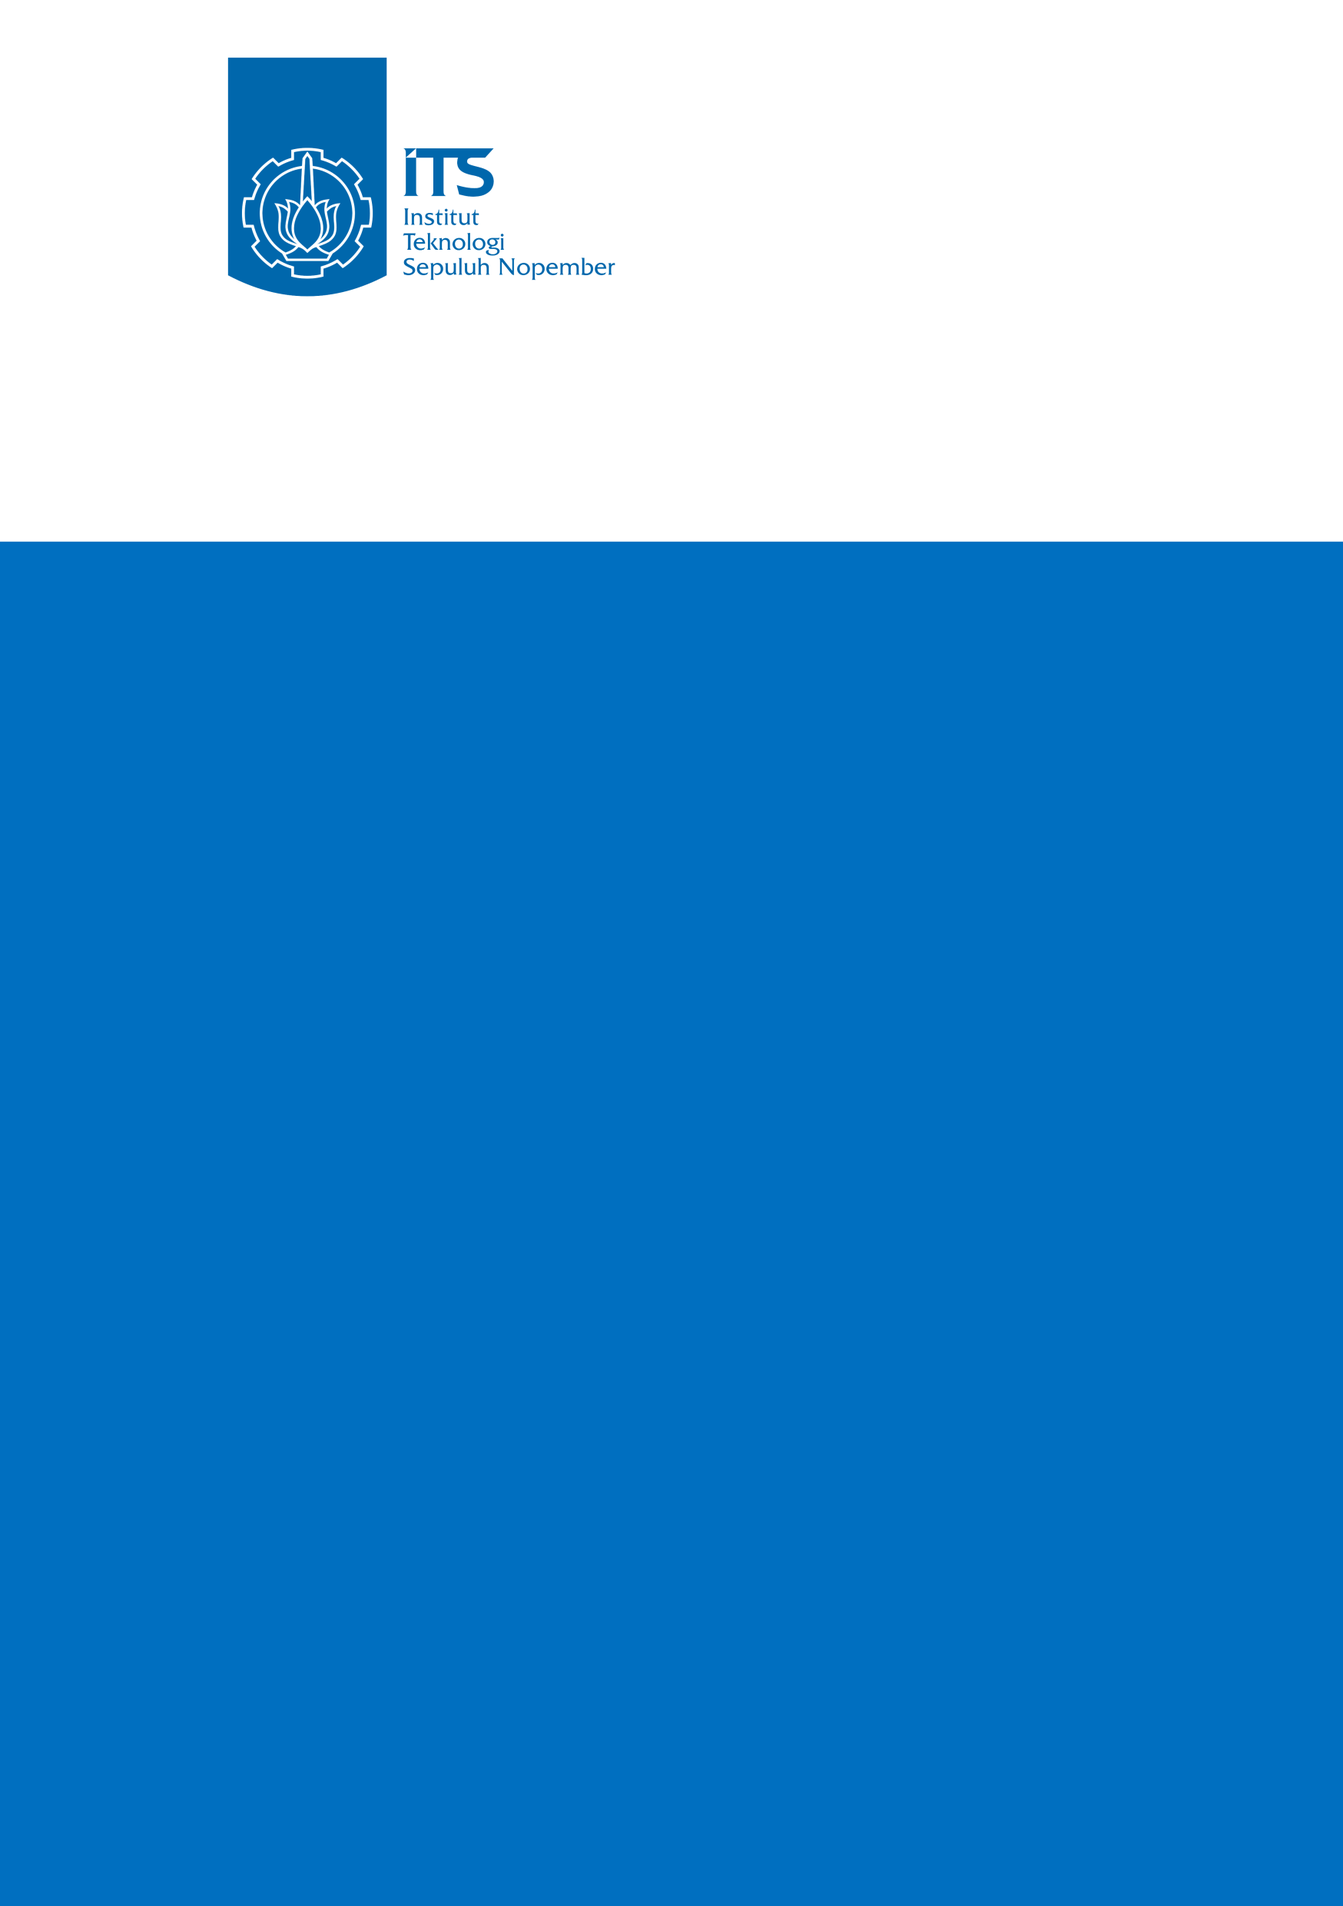
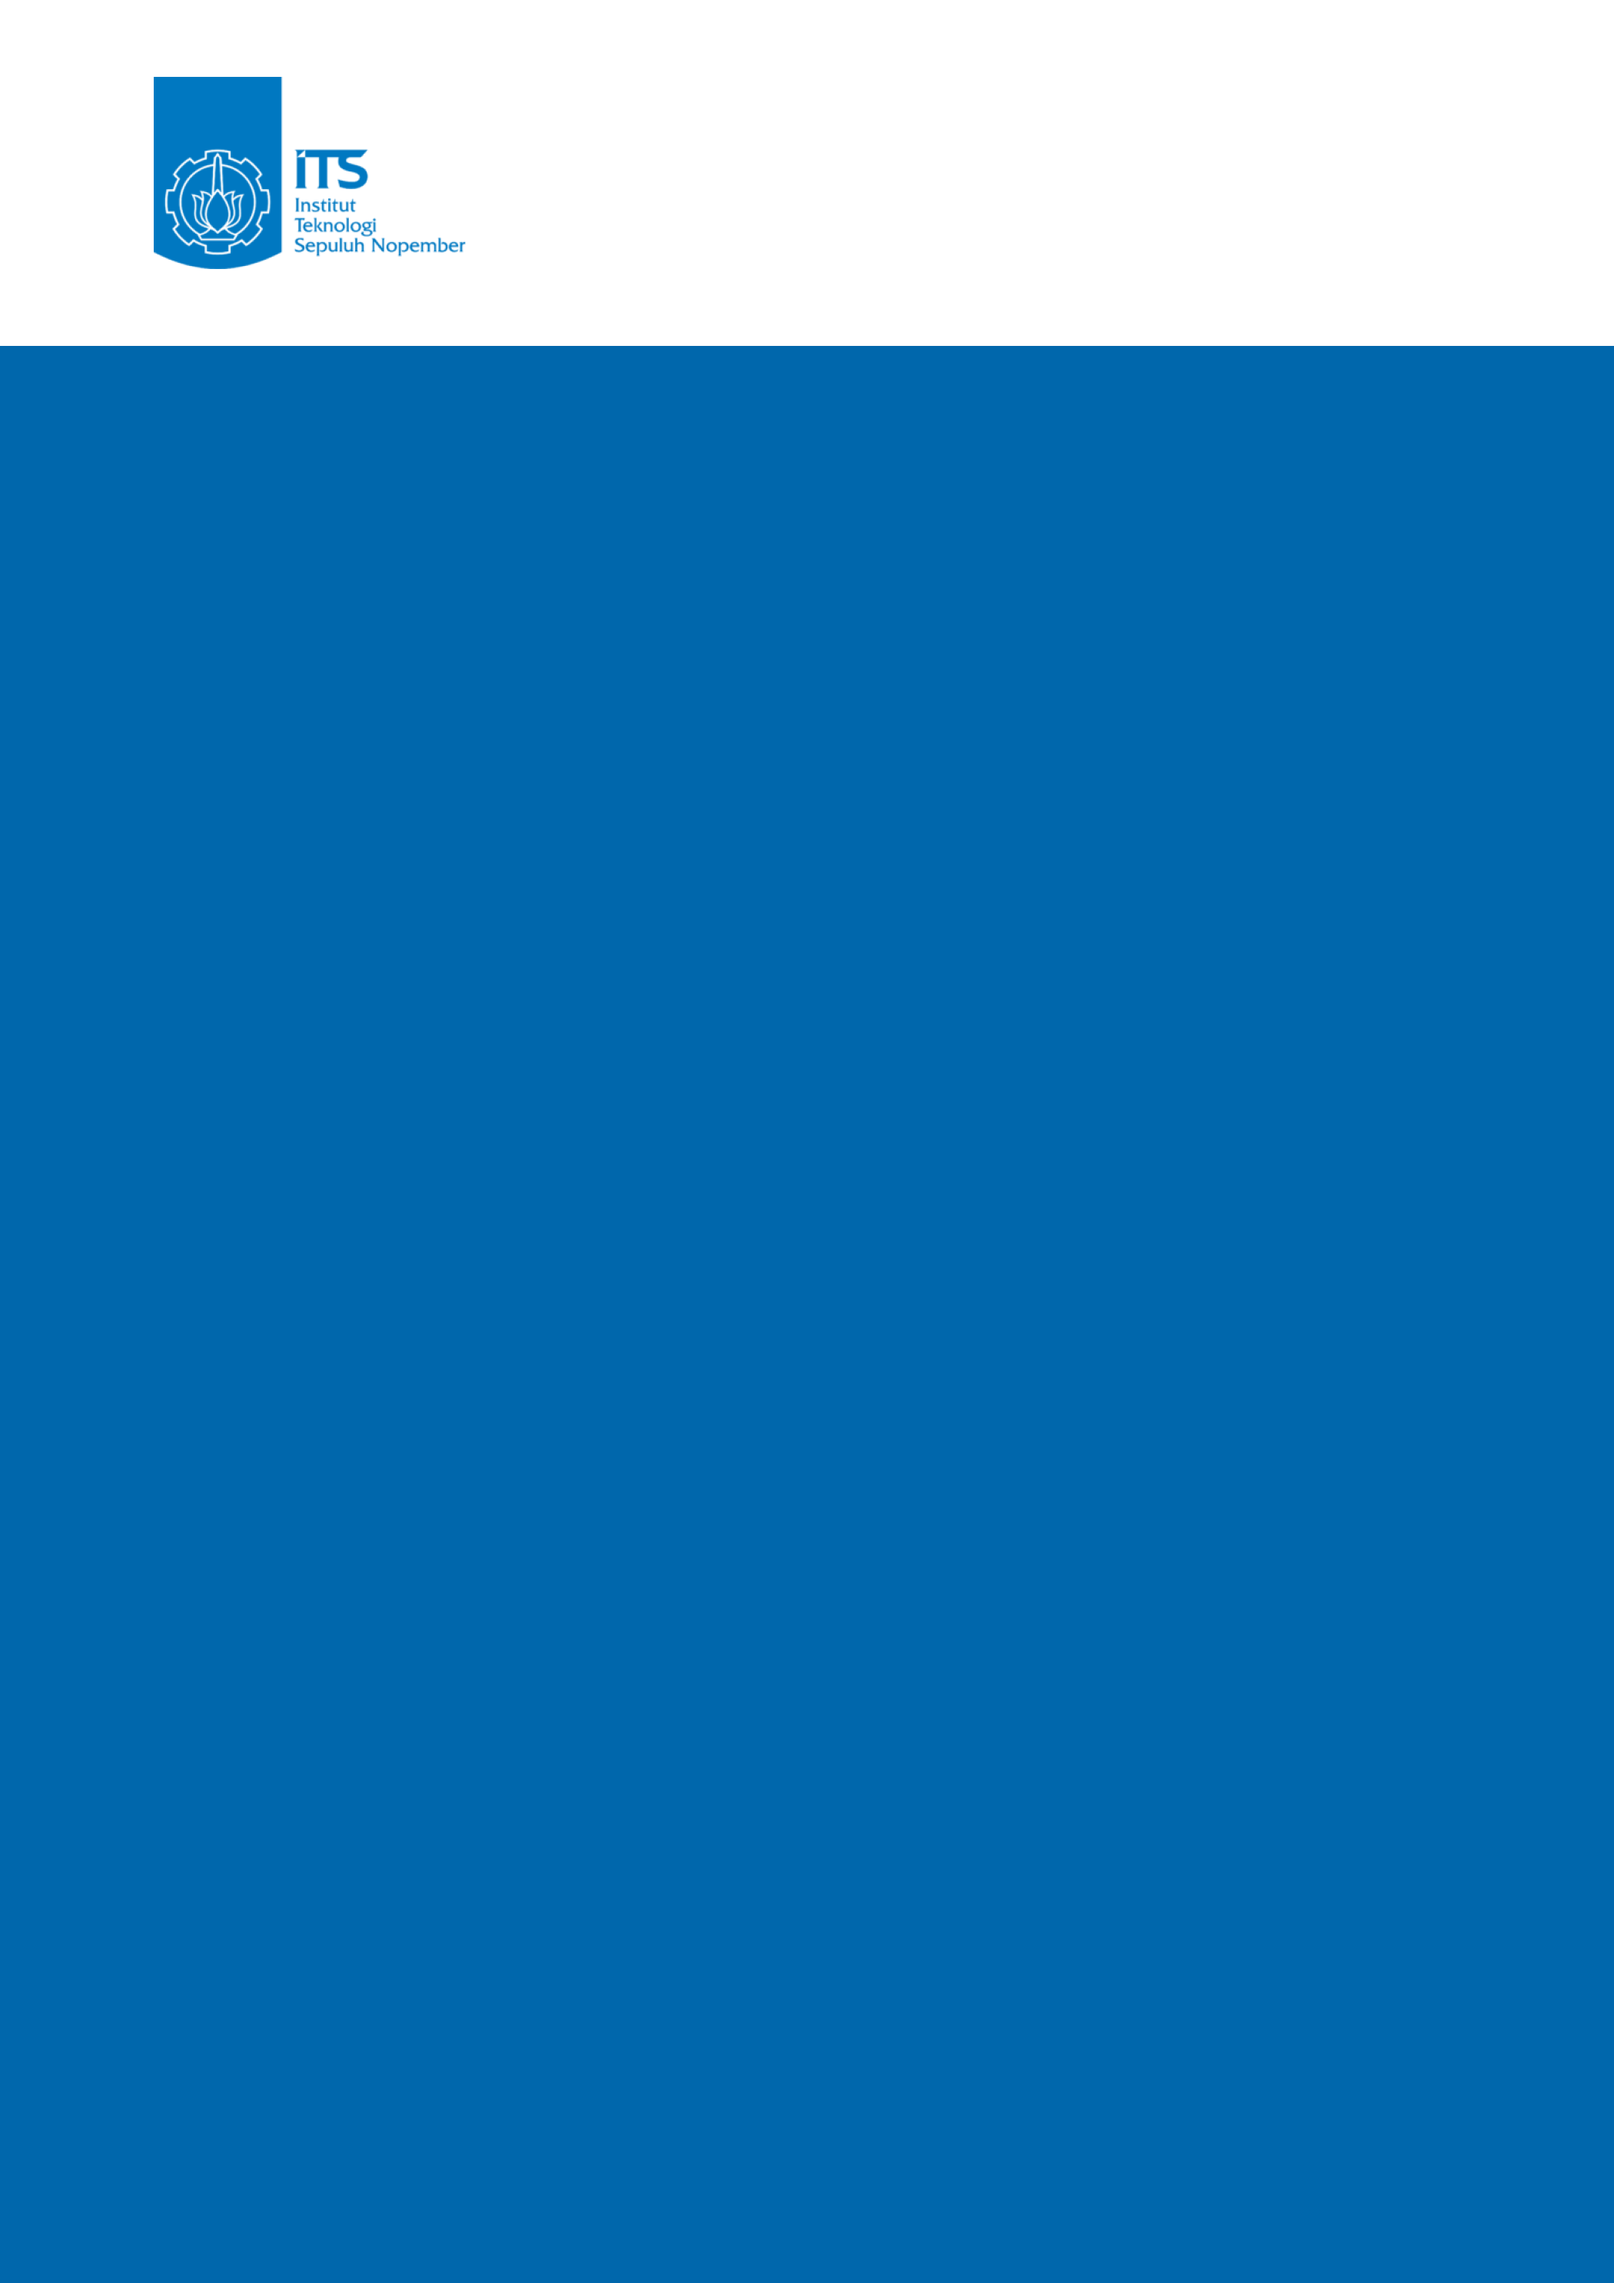
feat: add variables :rocket:

Changed region(s): [[0.0, 0.031, 1.0, 0.3105]]

diff --git a/pustaka/variables.tex b/pustaka/variables.tex
@@ -1,7 +1,19 @@
-\def\name{Aaron Christopher Tanhar}
-\def\nickname{Aaron}
-\def\advisor{Mochamad Hariadi, S.T., M.Sc., Ph.D.}
-\def\coadvisor{Dr. Surya Sumpeno, S.T., M.Sc.}
-\def\nrp{0721 19 4000 0055}
-\def\advisornip{19691209 199703 1 002}
-\def\coadvisornip{19690613 199702 1 003}
+\newcommand{\name}{Aaron Christopher Tanhar}
+\newcommand{\authorname}{Tanhar, Aaron Christopher}
+\newcommand{\nickname}{Aaron}
+\newcommand{\advisor}{Mochamad Hariadi, S.T., M.Sc., Ph.D.}
+\newcommand{\coadvisor}{Dr. Surya Sumpeno, S.T., M.Sc.}
+\newcommand{\nrp}{0721 19 4000 0055}
+\newcommand{\advisornip}{19691209 199703 1 002}
+\newcommand{\coadvisornip}{19690613 199702 1 003}
+\newcommand{\tatitle}{SISTEM DATA SHARING BERBASIS \emph{BLOCKCHAIN} UNTUK \emph{AUDIO PLAYER} DI \emph{METAVERSE}}
+\newcommand{\engtatitle}{\emph{BLOCKCHAIN DATA SHARING SYSTEM FOR AUDIO PLAYER IN METAVERSE}}
+\newcommand{\place}{Surabaya}
+\newcommand{\studyprogram}{Teknik Komputer}
+\newcommand{\engstudyprogram}{Computer Engineering}
+\newcommand{\faculty}{Teknologi Elektro dan Informatika Cerdas}
+\newcommand{\facultyshort}{FTEIC}
+\newcommand{\engfacultyshort}{ELECTICS}
+\newcommand{\engfaculty}{Intelligent Electrical and Informatics Technology}
+\newcommand{\department}{Teknik Komputer}
+\newcommand{\engdepartment}{Computer Engineering}

diff --git a/sampul/konten-id.tex b/sampul/konten-id.tex
@@ -8,8 +8,7 @@
 % Ubah kalimat berikut dengan judul tugas akhir
 \begin{spacing}{1.5}
   \begin{Large}
-    KALKULASI ENERGI PADA ROKET LUAR
-    ANGKASA BERBASIS \emph{ANTI-GRAVITASI}
+    \tatitle
   \end{Large}
 \end{spacing}
 
@@ -26,23 +25,23 @@
 % Ubah kalimat-kalimat berikut dengan nama-nama dosen pembimbing
 \begin{large}
   \textmd{Dosen Pembimbing} \\
-  Nikola Tesla, S.T., M.T. \\
+  \advisor{} \\
   \textmd{NIP \advisornip{}} \\
-  Wernher von Braun, S.T., M.T. \\
+  \coadvisor{} \\
   \textmd{NIP \coadvisornip{}}
 \end{large}
 
 \vspace{\fill}
 
 % Ubah kalimat-kalimat berikut dengan nama departemen dan fakultas
-Program Studi Strata 1 (S1) Teknik Dirgantara \\
+Program Studi Strata 1 (S1) \studyprogram{} \\
 
 \mdseries
 
-Departemen Teknik Dirgantara \\
-Fakultas Teknologi Dirgantara \\
+Departemen \department{} \\
+Fakultas \faculty{} \\
 Institut Teknologi Sepuluh Nopember
 
 % Ubah kalimat berikut dengan tempat dan tahun pembuatan buku
-Surabaya \\
-2077
+\place{} \\
+\the\year{}

diff --git a/sampul/konten-en.tex b/sampul/konten-en.tex
@@ -8,7 +8,7 @@
 % Ubah kalimat berikut dengan judul tugas akhir
 \begin{spacing}{1.5}
   \begin{Large}
-    \emph{ANTI-GRAVITY} BASED ENERGY CALCULATION ON OUTER SPACE ROCKETS
+    \engtatitle
   \end{Large}
 \end{spacing}
 
@@ -34,14 +34,14 @@
 \vspace{\fill}
 
 % Ubah kalimat-kalimat berikut dengan nama departemen dan fakultas
-Undergraduate Study Program of Computer Engineering \\
+Undergraduate Study Program of \engstudyprogram{} \\
 
 \mdseries
 
-DEPARTMENT OF AEROSPACE ENGINEERING \\
-Faculty of Aerospace Technology \\
+Department of \engdepartment{} \\
+Faculty of \engfaculty{} \\
 Sepuluh Nopember Institute of Technology
 
 % Ubah kalimat berikut dengan tempat dan tahun pembuatan buku
-Surabaya \\
-2077
+\place{} \\
+\the\year{}

diff --git a/sampul/sampul-luar.tex b/sampul/sampul-luar.tex
@@ -1,7 +1,7 @@
 \AddToShipoutPictureBG*{
   \AtPageLowerLeft{
     % Ubah nilai berikut jika posisi horizontal background tidak sesuai
-    \hspace{-4mm}
+    \hspace{-3.25mm}
 
     % Ubah nilai berikut jika posisi vertikal background tidak sesuai
     \raisebox{0mm}{
@@ -32,8 +32,9 @@
   % Pemilihan font bold
   \fontseries{bx}
   \selectfont
-
-  \input{\covercontents}
+  \begin{spacing}{1.5}
+    \input{\covercontents}
+  \end{spacing}
 
 \end{flushleft}
 

diff --git a/lainnya/pernyataan-keaslian-en.tex b/lainnya/pernyataan-keaslian-en.tex
@@ -28,7 +28,7 @@ If in future there is a discrepancy with this statement, then I am willing to ac
 
 \noindent\begin{tabularx}{\textwidth}{X l}
   % Ubah kalimat berikut sesuai dengan tempat, bulan, dan tahun penulisan
-                     & Surabaya, Mei 2021 \\
+                     & \place{}, Mei 2021 \\
                      &                    \\
   Acknowledged       &                    \\
   Advisor            & Student            \\

diff --git a/lainnya/pernyataan-keaslian.tex b/lainnya/pernyataan-keaslian.tex
@@ -28,7 +28,7 @@ Bilamana di kemudian hari ditemukan ketidaksesuaian dengan pernyataan ini, maka 
 
 \noindent\begin{tabularx}{\textwidth}{X l}
   % Ubah kalimat berikut sesuai dengan tempat, bulan, dan tahun penulisan
-                     & Surabaya, Mei 2021 \\
+                     & \place{}, Mei 2021 \\
                      &                    \\
   Mengetahui         &                    \\
   Dosen Pembimbing   & Mahasiswa          \\

diff --git a/lainnya/lembar-pengesahan-en.tex b/lainnya/lembar-pengesahan-en.tex
@@ -88,7 +88,7 @@
 \begin{center}
   % Ubah kalimat berikut dengan jabatan kepala departemen
   Acknowledged, \\
-  Head of Computer Engineering Department\\
+  Head of \engdepartment{} Department \engfacultyshort{} - ITS \\
 
   \vspace{8ex}
 
@@ -98,6 +98,6 @@
 \end{center}
 
 \begin{center}
-  \textbf{SURABAYA\\Month, Year}
+  \textbf{\MakeUppercase{\place{}}\\Month, \the\year{}}
 \end{center}
 \endgroup

diff --git a/lainnya/lembar-pengesahan.tex b/lainnya/lembar-pengesahan.tex
@@ -88,7 +88,7 @@
 \begin{center}
   % Ubah kalimat berikut dengan jabatan kepala departemen
   Mengetahui, \\
-  Kepala Departemen Teknik Komputer FTEIC - ITS\\
+  Kepala Departemen \department{} \facultyshort{} - ITS\\
 
   \vspace{8ex}
 
@@ -98,6 +98,6 @@
 \end{center}
 
 \begin{center}
-  \textbf{SURABAYA\\Bulan, Tahun}
+  \textbf{\MakeUppercase{\place{}}\\Bulan, \the\year{}}
 \end{center}
 \endgroup

diff --git a/lainnya/kata-pengantar.tex b/lainnya/kata-pengantar.tex
@@ -29,7 +29,7 @@ Akhir kata, semoga \lipsum[6][1-8]
 \begin{flushright}
   \begin{tabular}[b]{c}
     % Ubah kalimat berikut dengan tempat, bulan, dan tahun penulisan
-    Surabaya, Mei 2021 \\
+    \place{}, Mei \the\year{} \\
     \\
     \\
     \\

diff --git a/main.tex b/main.tex
@@ -2,7 +2,7 @@
 
 % Judul dokumen
 \title{Buku Tugas Akhir ITS}
-\author{Musk, Elon Reeve}
+\author{Tanhar, Aaron Christopher}
 
 % Pengaturan ukuran teks dan bentuk halaman dua sisi
 \documentclass[12pt,twoside]{report}
